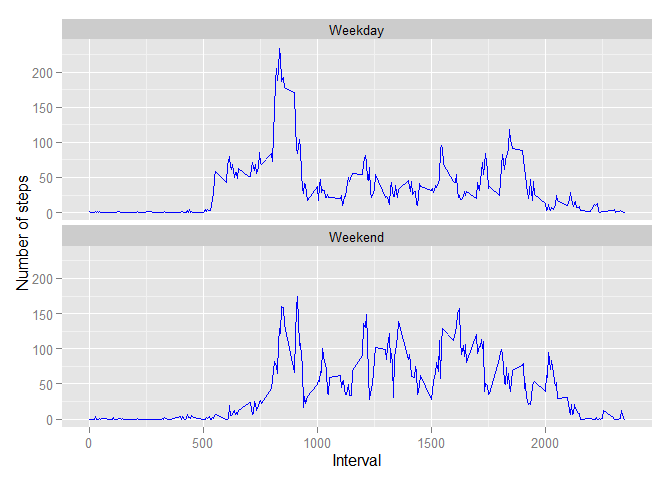
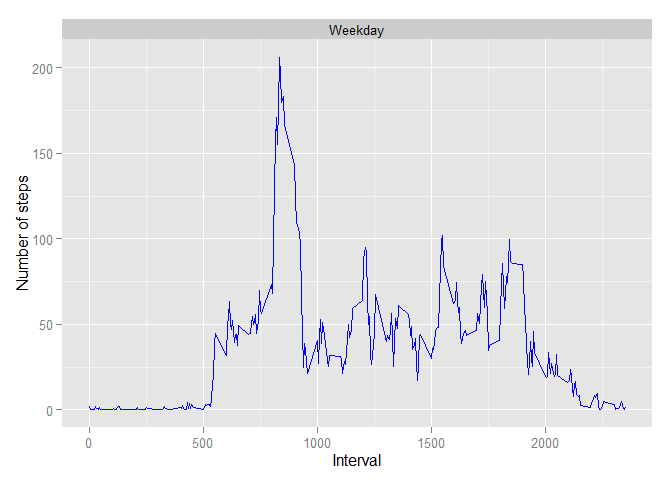
Hidden local setting with comment

diff --git a/PA1_template.html b/PA1_template.html
@@ -64,8 +64,6 @@ img {
 </div>
 
 
-<pre class="r"><code>Sys.setlocale(&quot;LC_TIME&quot;,&quot;C&quot;)</code></pre>
-<pre><code>## [1] &quot;C&quot;</code></pre>
 <div id="loading-and-preprocessing-the-data" class="section level2">
 <h2>Loading and preprocessing the data</h2>
 <p>This part will open the zipe file and read the data from the included activity.csv. The read will include NA values and transform all columns to appropriate data type.</p>
@@ -154,7 +152,7 @@ histogram</code></pre>
 activityPatternByDayType &lt;- aggregate(activityData$steps, by=list(activityData$dayType, activityData$interval), FUN=mean, na.rm=TRUE)
   
 ggplot(activityPatternByDayType,aes(Group.2,x)) + facet_wrap( ~ Group.1, ncol=1) + geom_line(colour=&quot;blue&quot;) + xlab(&quot;Interval&quot;) + ylab(&quot;Number of steps&quot;)</code></pre>
[2 lines of base64/hex data omitted]
 </div>
 
 

diff --git a/PA1_template.md b/PA1_template.md
@@ -1,13 +1,6 @@
 # Reproducible Research: Peer Assessment 1
 
 
-```r
-Sys.setlocale("LC_TIME","C")
-```
-
-```
-## [1] "C"
-```
 
 ## Loading and preprocessing the data
 This part will open the zipe file and read the data from the included activity.csv. The read will include NA values and transform all columns to appropriate data type.
